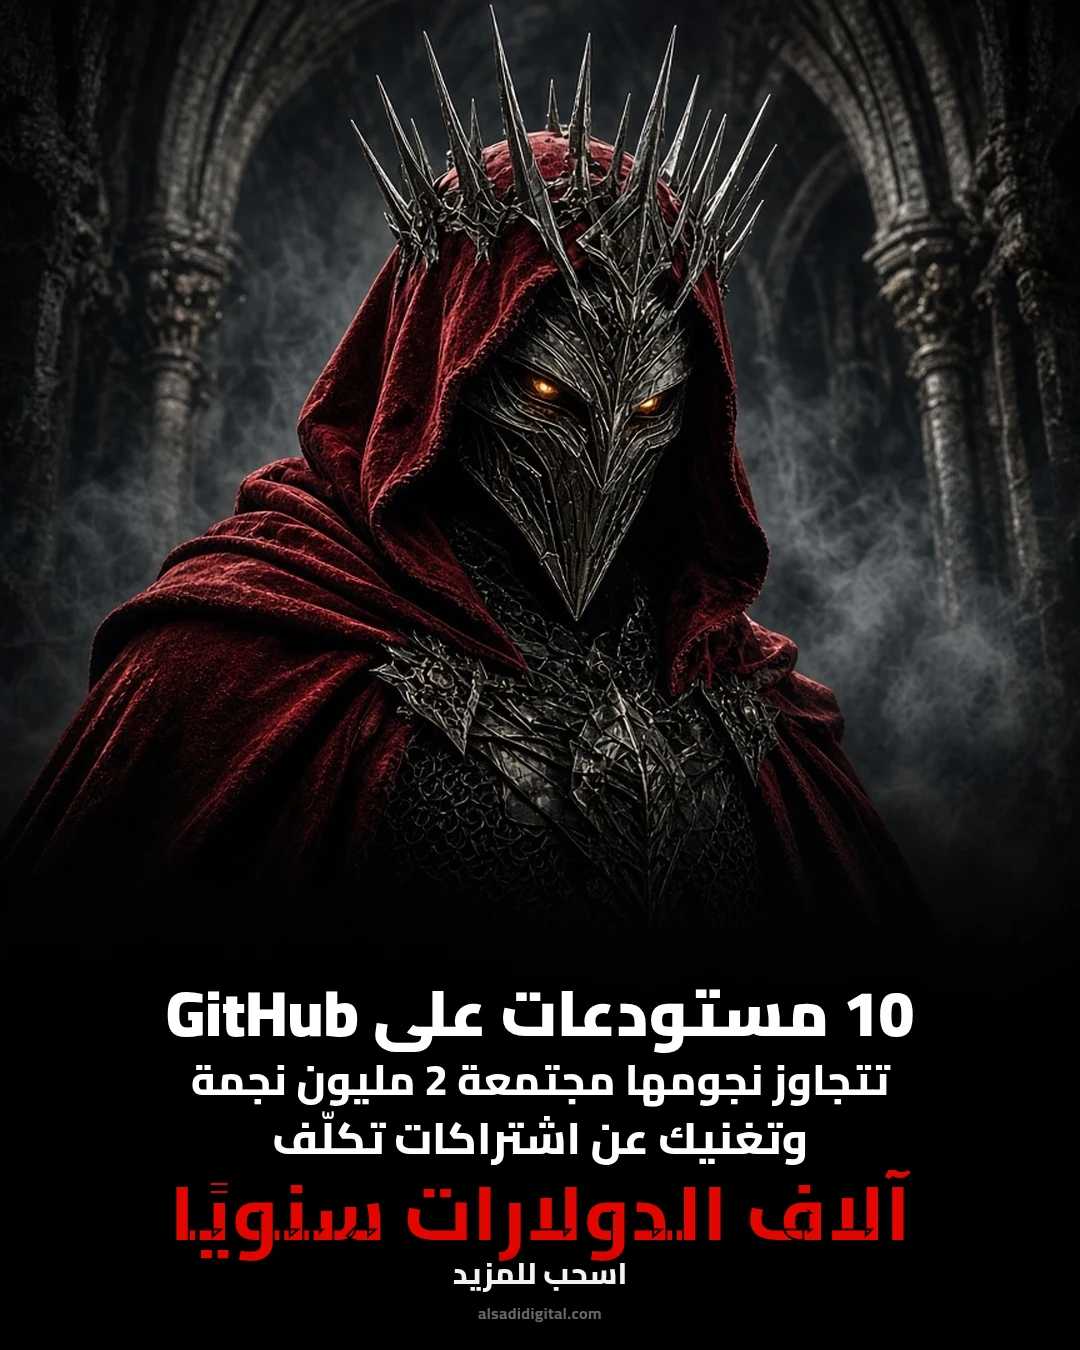
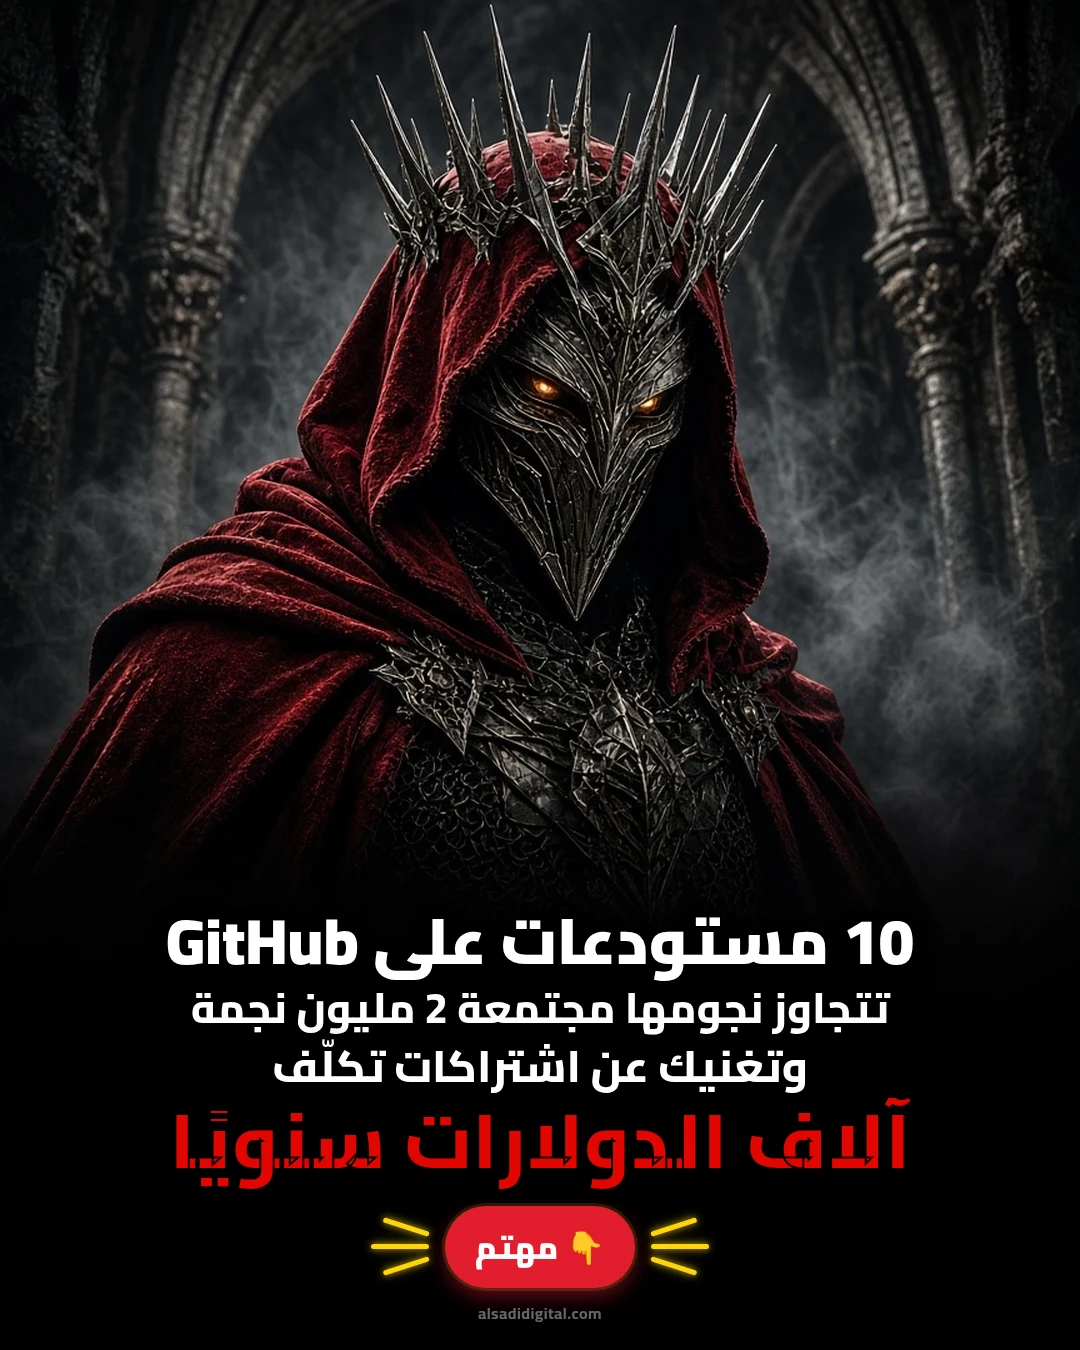
Blog: replace GitHub cover swipe cue with مهتم CTA button
Swap the small اسحب للمزيد line for the same red pill and yellow side rays used on cover 12, keep typography and layout unchanged, and bump cover/OG cache to v=9.

Changed region(s): [[0.1528, 0.6533, 0.8556, 0.9644]]

diff --git a/src/content/blog/posts/github-before-subscribe.ts b/src/content/blog/posts/github-before-subscribe.ts
@@ -3,7 +3,7 @@ import type { BlogPost } from '../types'
 export const post: BlogPost = {
   slug: 'github-repos-before-you-subscribe',
   date: '2026-11-11',
-  cover: '/blog/github-repos-before-you-subscribe.webp?v=8',
+  cover: '/blog/github-repos-before-you-subscribe.webp?v=9',
   coverAlt: {
     ar: 'غلاف مقال: ابحث في GitHub قبل أن تدفع اشتراكًا جديدًا',
     en: 'Cover: search GitHub before you pay for a new subscription',

diff --git a/src/content/blog/index.ts b/src/content/blog/index.ts
@@ -45,7 +45,7 @@ export const BLOG_POSTS: BlogPost[] = [
 
 /** 1200x630 social-share variant of the cover (portrait image centred on a blurred backdrop). */
 export function blogOgImage(post: BlogPost) {
-  return `/blog/og/${post.slug}.jpg?v=8`
+  return `/blog/og/${post.slug}.jpg?v=9`
 }
 
 export function getBlogPost(slug: string) {
